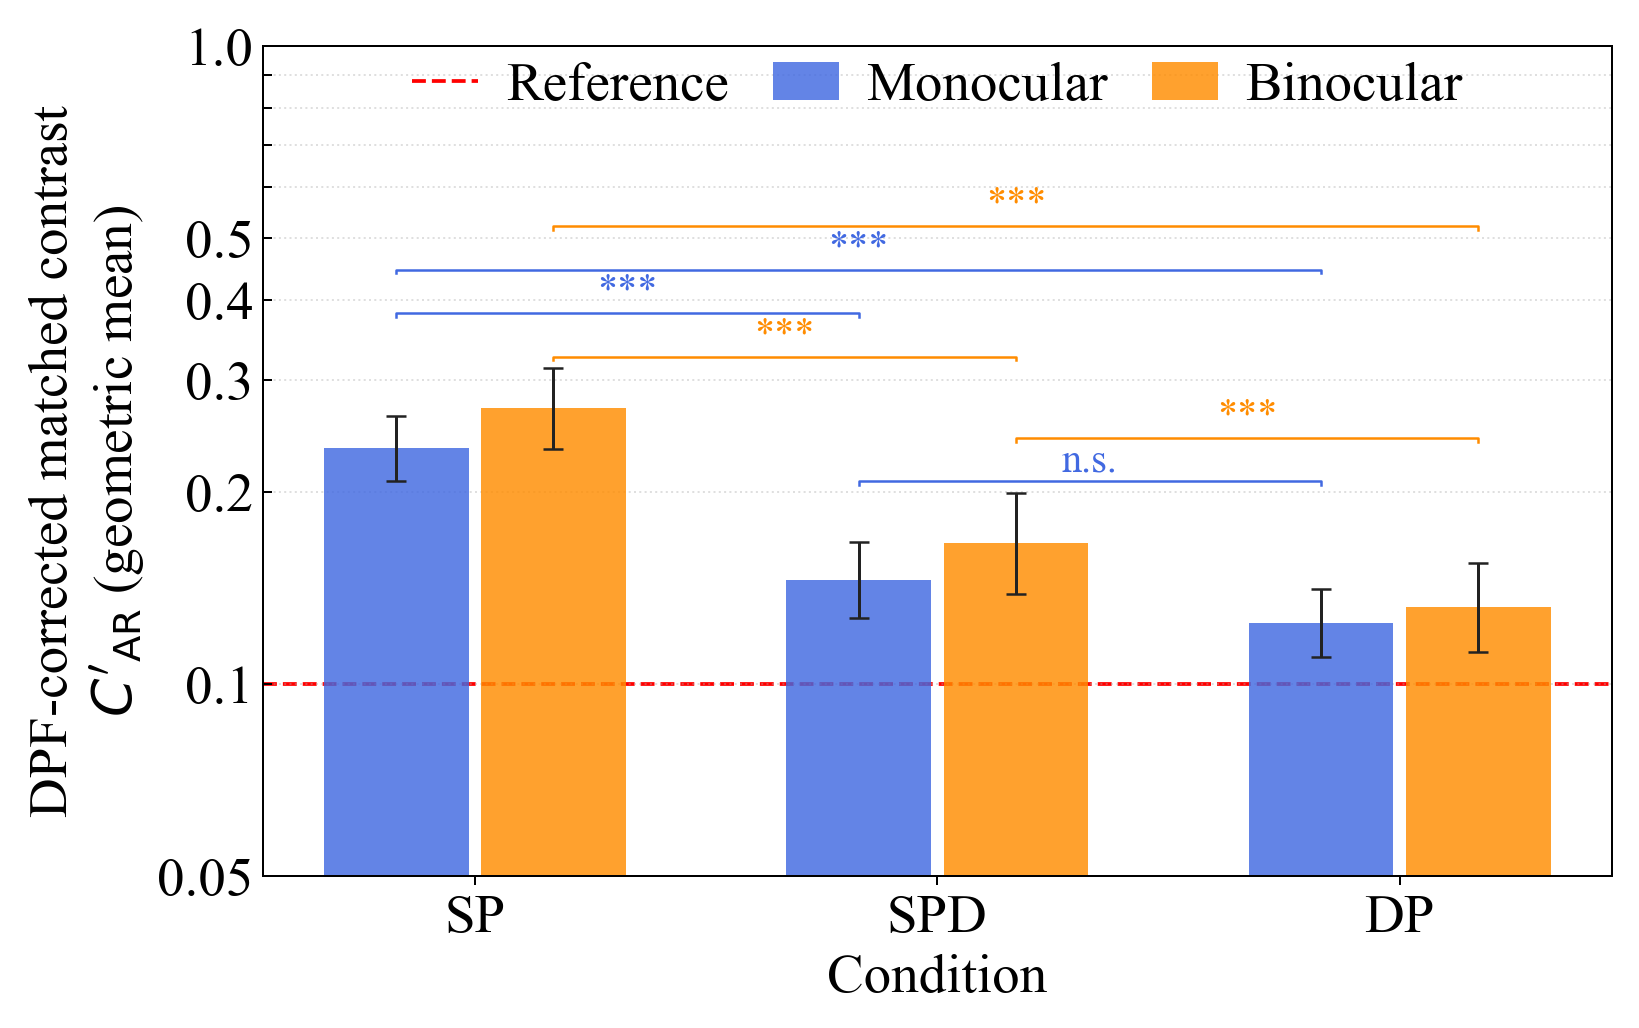
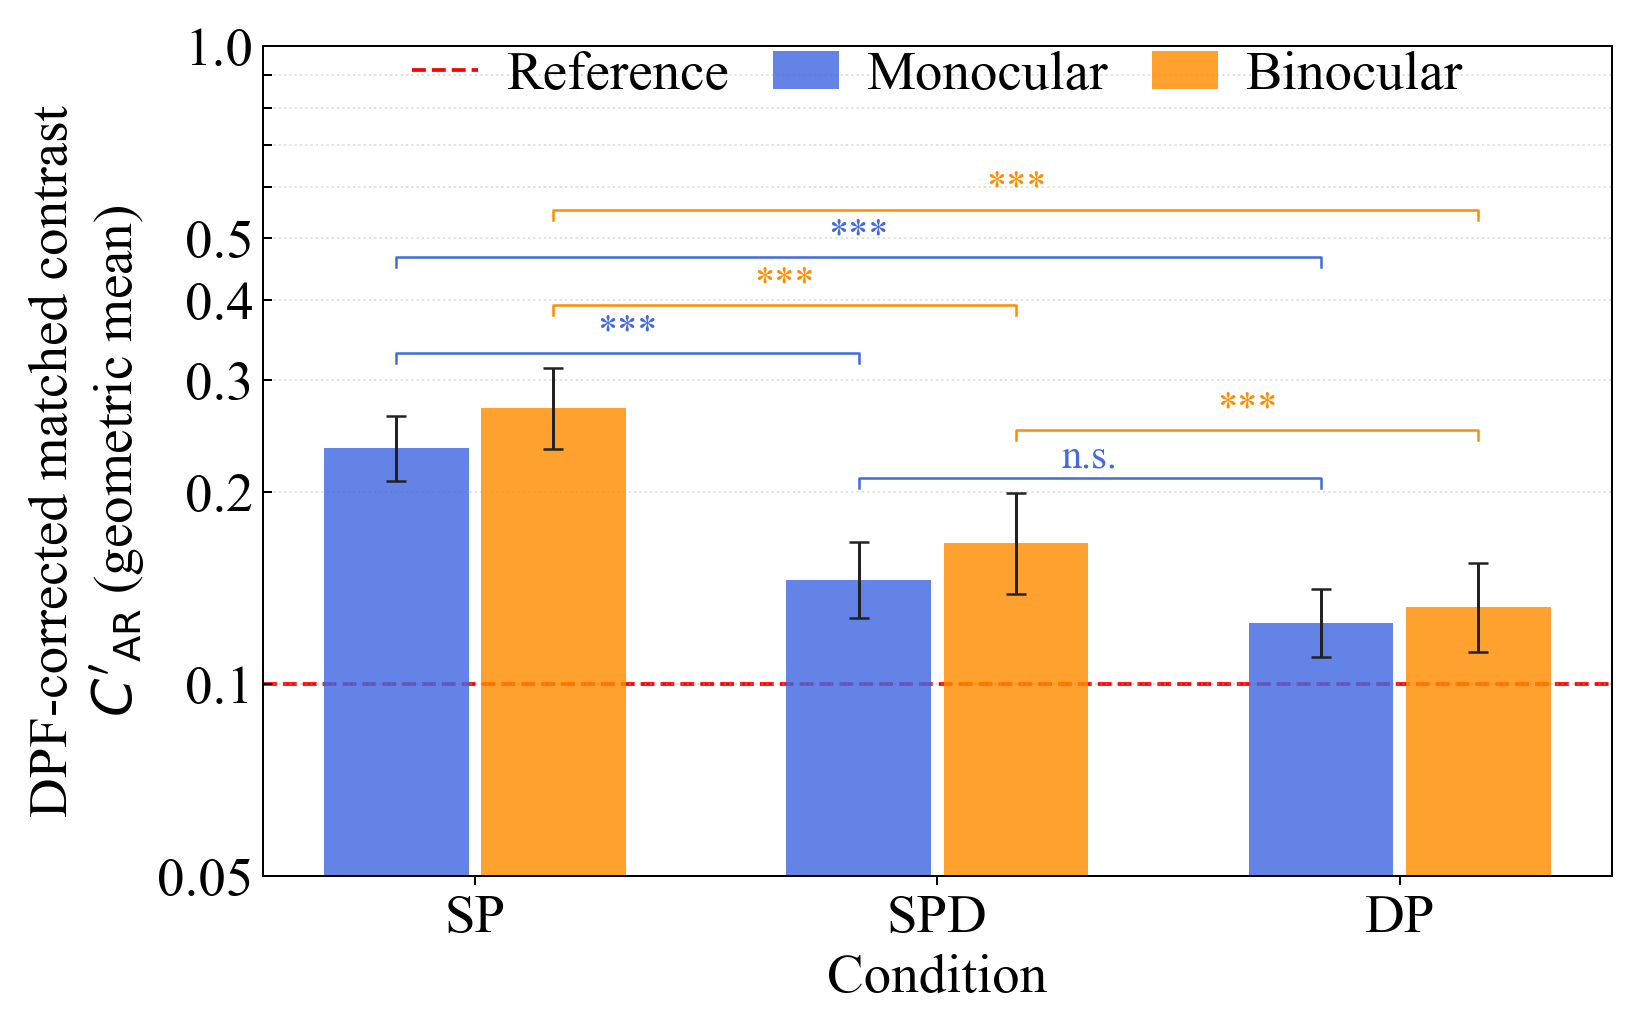
feat: 研究会用にグラフプロットを変更

diff --git a/src/experiment/main_analyze/figures.py b/src/experiment/main_analyze/figures.py
@@ -49,14 +49,14 @@ _SIGNIFICANCE_FIGSIZE = (9.2, 5.8)
 _SIGNIFICANCE_AXIS_FONT_SIZE = 22
 _SIGNIFICANCE_YLABEL_FONT_SIZE = 22
 _SIGNIFICANCE_LABEL_FONT_SIZE = 16       # アスタリスク / n.s. の希望サイズ
-_SIGNIFICANCE_LEGEND_FONT_SIZE = 22      # Reference / Monocular / Binocular
+_SIGNIFICANCE_LEGEND_FONT_SIZE = 22      # Reference / Monocular / Binocular（自動縮小しない）
 _SIGNIFICANCE_MIN_FONT_SIZE = 6         # 空き領域不足時の自動縮小の下限
-_SIGNIFICANCE_TOP_PADDING_PT = 3
-_SIGNIFICANCE_DATA_GAP_PT = 3
-_SIGNIFICANCE_LEGEND_GAP_PT = 2
-_SIGNIFICANCE_ROW_GAP_PT = 1
-_SIGNIFICANCE_CAP_HEIGHT_PT = 1.5
-_SIGNIFICANCE_LABEL_GAP_PT = 0.5
+_SIGNIFICANCE_TOP_PADDING_PT = 2
+_SIGNIFICANCE_DATA_GAP_PT = 2
+_SIGNIFICANCE_LEGEND_GAP_PT = 1
+_SIGNIFICANCE_ROW_GAP_PT = 0.4
+_SIGNIFICANCE_CAP_HEIGHT_PT = 4.0
+_SIGNIFICANCE_LABEL_GAP_PT = 0.3
 _SIGNIFICANCE_LINE_WIDTH = 1.0
 _CONTRAST_Y_TICKS = np.array(
     [0.05, *np.arange(0.1, 1.01, 0.1)],
@@ -841,19 +841,43 @@ def _corrected_significance_figure(
             ])
             floor = axis.transData.transform((0.0, local_high))[1]
             intervals.append((level, annotation, left, right, floor))
-        intervals.sort(key=lambda item: (item[4], item[3] - item[2], item[0]))
+        # 同じ条件ペアをまとめ、必ず単眼→両眼の順に配置する。
+        # CIの高さで眼条件を別々に並べ替えると上下が逆転するため、
+        # ペア単位の必要高さ・横幅で配置順を決める。
+        def comparison_pair(annotation):
+            return tuple(sorted((
+                str(annotation["Baseline_Condition"]),
+                str(annotation["Condition"]),
+            )))
+
+        pair_priority = {}
+        for _, annotation, left, right, floor in intervals:
+            pair = comparison_pair(annotation)
+            if pair not in pair_priority:
+                pair_priority[pair] = (floor, right - left)
+            else:
+                previous_floor, previous_width = pair_priority[pair]
+                pair_priority[pair] = (
+                    min(previous_floor, floor), max(previous_width, right - left),
+                )
+        eye_priority = {"monocular": 0, "binocular": 1}
+        intervals.sort(key=lambda item: (
+            *pair_priority[comparison_pair(item[1])],
+            comparison_pair(item[1]), eye_priority[str(item[1]["Ocularity"])],
+            item[0],
+        ))
         fitted = None
-        for scale in np.linspace(1.0, _SIGNIFICANCE_MIN_FONT_SIZE / max(
-            _SIGNIFICANCE_LABEL_FONT_SIZE, _SIGNIFICANCE_LEGEND_FONT_SIZE,
-        ), 51):
+        for scale in np.linspace(
+            1.0, _SIGNIFICANCE_MIN_FONT_SIZE / _SIGNIFICANCE_LABEL_FONT_SIZE, 51,
+        ):
             label_size = max(_SIGNIFICANCE_MIN_FONT_SIZE, _SIGNIFICANCE_LABEL_FONT_SIZE * scale)
-            legend_size = max(_SIGNIFICANCE_MIN_FONT_SIZE, _SIGNIFICANCE_LEGEND_FONT_SIZE * scale)
+            legend_size = _SIGNIFICANCE_LEGEND_FONT_SIZE  # 凡例は固定サイズ。星だけ縮小する。
             legend = axis.legend(
                 frameon=False, ncol=3, loc="upper center",
                 bbox_to_anchor=(0.5, (region_top - bounds.y0) / bounds.height),
                 fontsize=legend_size, borderaxespad=0.0,
                 handlelength=1.2, handletextpad=0.5, columnspacing=0.8,
-                borderpad=0.15,
+                borderpad=0.0,
             )
             for text in legend.get_texts():
                 text.set_fontfamily([selected_font])
@@ -883,6 +907,17 @@ def _corrected_significance_figure(
                 x0 = min(x0, center_x - text_width / 2.0) - pt(1)
                 x1 = max(x1, center_x + text_width / 2.0) + pt(1)
                 bottom = floor + pt(_SIGNIFICANCE_DATA_GAP_PT)
+                if str(annotation["Ocularity"]) == "binocular":
+                    # 横方向の衝突の有無によらず、対応する単眼注記の
+                    # 占有領域より上に両眼の比較線を配置する。
+                    monocular = [
+                        item for item in placed
+                        if str(item["annotation"]["Ocularity"]) == "monocular"
+                        and comparison_pair(item["annotation"]) == comparison_pair(annotation)
+                    ]
+                    if len(monocular) != 1:
+                        raise FigureInputError("両眼比較線に対応する単眼比較線が一意ではありません")
+                    bottom = max(bottom, monocular[0]["top"] + row_gap)
                 for other in sorted(placed, key=lambda item: item["bottom"]):
                     overlaps_x = x0 < other["x1"] and x1 > other["x0"]
                     if (overlaps_x and bottom < other["top"] + row_gap
